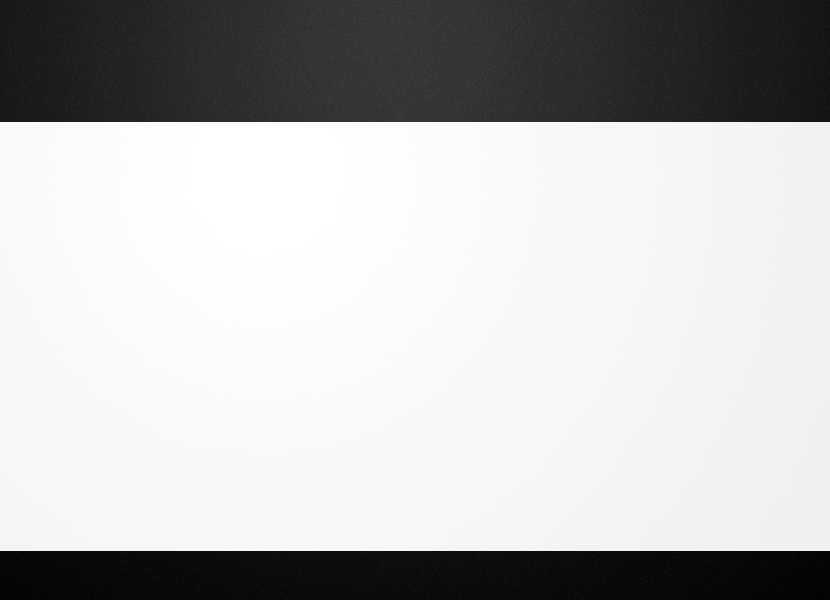
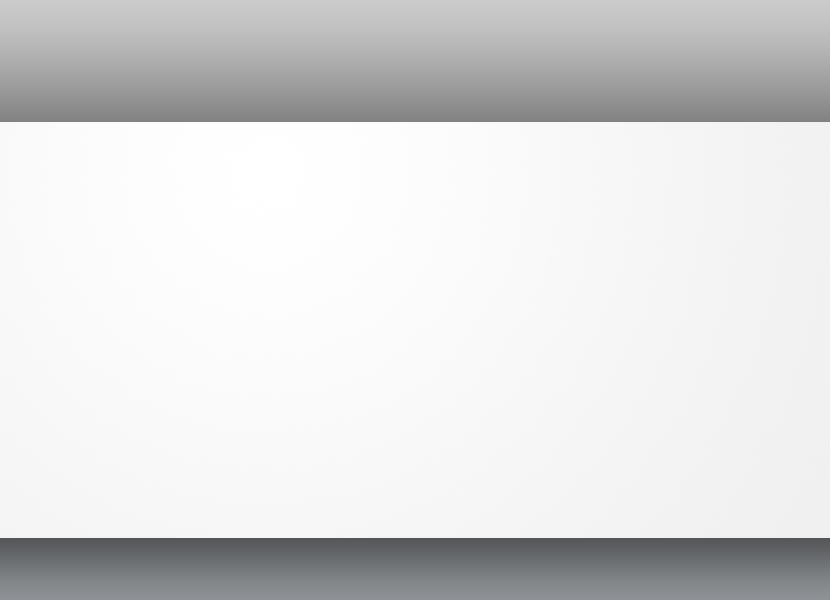
*Updated Looks of the Add Feed Page

diff --git a/css/styles.css b/css/styles.css
@@ -20,11 +20,11 @@ html{
     color:#fff;
     text-shadow:0 2px 5px #333;
     height:600px;
-	width:830px;
+    width:830px;
+    font-family:"Tahoma";
 }
 
 #header{
-	font-family:'Tahoma';
     padding: 40px 0 10px 30px;
 }
 #header img{
@@ -39,9 +39,8 @@ html{
     float:right;
     margin-top: -30px;
     margin-right:30px;
-	font-size:12px;
-    font-family:"Tahoma";
-	font-weight:bold;
+    font-size:12px;
+    font-weight:bold;
 }
 #searchbox input[type="text"]{
     text-shadow: 0 2px 5px #000;    
@@ -95,20 +94,20 @@ html{
 .filter{
     margin-top:14px;
     margin-left:20px;
-	background-image: -webkit-gradient(radial, center bottom, 0, center bottom, 490, color-stop(0, #303030), color-stop(1, #000000));
-	border-radius:10px 10px 0 0; 
-	width:655px;
-	height:26px;
+    background-image: -webkit-gradient(radial, center bottom, 0, center bottom, 490, color-stop(0, #505050), color-stop(1, #303030));
+    border-radius:10px 10px 0 0; 
+    width:655px;
+    height:26px;
 }
 .filter li{
     float:left;
-	font-size:13px;
+    font-size:13px;
     list-style:none;
-	margin-left:10px;
-	margin-top:6px;
-	text-shadow:0 2px 3px #111;
-	font-family:"Trebuchet MS";
-	font-weight:bold;
+    margin-left:10px;
+    margin-top:6px;
+    text-shadow:0 2px 3px #111;
+    font-family:"Trebuchet MS";
+    font-weight:bold;
 }
 .filter li a{
     color:#fff;
@@ -124,42 +123,42 @@ html{
     text-shadow:0 -2px 15px #888;
 }
 .filter li a.selected{
-	border-radius:10px 10px 0 0;
-	background-image: -webkit-gradient(linear, left bottom, left top, color-stop(0, #FCFCFC), color-stop(1, #D1D1D1));
-	color:#333;
-	padding-top:10px;
-	text-shadow:none;
+    border-radius:10px 10px 0 0;
+    background-image: -webkit-gradient(linear, left bottom, left top, color-stop(0, #FCFCFC), color-stop(1, #D1D1D1));
+    color:#333;
+    padding-top:10px;
+    text-shadow:none;
 }
 .filter li a.selected{
-	text-decoration:none;
-	cursor:default;
+    text-decoration:none;
+    cursor:default;
 }
 #youtube{
-	background:url('../img/youtube.png');
-	width:50px;
-	height:23px;
-	border-radius:5px;
-	position:absolute;
-	right:20px;
-	margin-top:-25px;
-	cursor:pointer;
+    background:url('../img/youtube.png');
+    width:50px;
+    height:23px;
+    border-radius:5px;
+    position:absolute;
+    right:20px;
+    margin-top:-25px;
+    cursor:pointer;
 }
 #youtube:hover{
-	background:url('../img/youtube.png') 0 -24px;
+    background:url('../img/youtube.png') 0 -24px;
 }
 #youtube:active{
-	background:url('../img/youtube.png') 0 -48px;
+    background:url('../img/youtube.png') 0 -48px;
 }
 /*----------------------------
     AddFeeds Content Area
 -----------------------------*/
 #container{
-    margin-left:6px;
+    margin-left:10px;
     position:relative;
     width:10000px;
     height:390px;
     overflow:auto;
-    margin-top:5px;
+    margin-top:25px;
 }
 .fdkadiv{
     float:left;
@@ -170,8 +169,8 @@ html{
     text-align:center;
     padding:auto;
     margin:auto;
-    width:150px;
-    height:80px;
+    width:155px;
+    height:89px;
     color:white;
     font-size:12px;
     font-weight:bold;
@@ -180,7 +179,7 @@ html{
     opacity:0;
 }
 .subscbdimg{
-	position:absolute;
+    position:absolute;
     width:32px;
     height:22px;
     float:right;
@@ -188,10 +187,10 @@ html{
     top:-5px;
 }
 .grimg li{
-    width:154px;
-    height:86px;
+    width:160px;
+    height:89px;
     position:relative;
-    margin:15px 25px 25px 25px;
+    margin:15px 15px 65px 25px;
     list-style:none;
     display:block;
     float:left;
@@ -201,8 +200,10 @@ html{
     -webkit-transition-duration:.2s;
     -webkit-box-shadow:0 3px 7px #333;
 }
-.grimg li img{
+.feedimage{
     z-index:100;
+    width:160px;
+    height:89px;
     border-radius:7px;
 }
 .grimg li:hover{
@@ -219,24 +220,6 @@ html{
     bottom:-25px;
     left:0%;
     width:100%;
-}
-
-#feedback{
-    position:relative;
-    margin-left:50px;
-    top:20px;
-    color:#000;
-    padding:5px;
-    cursor:pointer;
-    border-radius:5px;
-    background:url(../img/arrow.png) -10px 0px no-repeat;
-}
-#feedback:hover{
-    color:#222;
-    background:url('../img/arrow.png') -10px -30px no-repeat;
-}
-#feedback:active{
-    background:url('../img/arrow.png') -10px -60px no-repeat;
 }
 /*----------------------------
     MyFeeds Content Area/////////////////////////////////////////////
@@ -412,14 +395,16 @@ background-image: -webkit-gradient(linear, left bottom, left top, color-stop(0, 
 ////////////////////////////////////*/
 
 #footer{
-    position:fixed;
+    position:absolute;
     height:60px;
-    bottom:0px;
+    bottom:-8px;
+    color:#eee;
+    font-weight:bold;
     width:830px;
+    font-size:15px;
 }
 .toaddfeedsbtn{
-    font-family:'Segoe UI',Arial, sans-serif;
-    color:#333;
+    
     text-shadow: none;
     margin-left: 40px;
     margin-top: 15px;
@@ -431,8 +416,7 @@ background-image: -webkit-gradient(linear, left bottom, left top, color-stop(0, 
     background:url('../img/arrow2.png') 0 0 no-repeat;
 }
 #tomyfeedsbtn2{
-    font-family:'Segoe UI',Arial, sans-serif;
-    color:#333;
+    
     text-shadow: none;
     margin-left: 5px;
     margin-top: 15px;
@@ -444,41 +428,57 @@ background-image: -webkit-gradient(linear, left bottom, left top, color-stop(0, 
     background:url('../img/arrow2.png') 0 0 no-repeat;
 }
 #tomyfeedsbtn2:hover,.toaddfeedsbtn:hover{
-    color:#444;
+
     background:url('../img/arrow2.png') 0 -30px no-repeat;
+	color:#fff;
 }
 
 #tomyfeedsbtn2:active,.toaddfeedsbtn:active{
 
     background:url('../img/arrow2.png') 0 -60px no-repeat;
+	color:#ddd;
 }
-
 
 #tomyfeedsbtn
 {
     cursor:pointer;
-    color:#333;
     text-shadow: none;
-    font-family:'Segoe UI',Arial, sans-serif;
     margin-right: 40px;
-    margin-top: 15px;
-    width: 90px;
     float:right;
-    font-size:15px;
-    padding:4px 5px 6px 10px;
+    padding:11px 12px 13px 47px;
     background:url('../img/arrow.png') 0 0 no-repeat;
 }
 
 #tomyfeedsbtn:hover
 {   
-    color:#444;
-    background:url('../img/arrow.png') 0 -30px no-repeat;
+    background:url('../img/arrow.png') 0 -42px no-repeat;
+	color:#fff;
 }
 #tomyfeedsbtn:active
 {
-    background:url('../img/arrow.png') 0 -60px no-repeat;
+    background:url('../img/arrow.png') 0 -84px no-repeat;
+	color:#ddd;
 }
 
+#feedback{
+    float:left;
+    position:relative;
+    margin-left:50px;
+    padding:12px 6px 11px 50px;
+    font-weight:bold;
+    cursor:pointer;
+    background:url('../img/feedback.png') 0 0 no-repeat;
+}
+#feedback:hover
+{   
+    color:#fff;
+    background:url('../img/feedback.png') 0 -42px no-repeat;
+}
+#feedback:active
+{
+    color:#ddd;
+    background:url('../img/feedback.png') 0 -84px no-repeat;
+}
 /*--------------------------------------------------------
                 Feed View Area CSS/////////////////////////////////////////////////
 ----------------------------------------------------------*/
@@ -550,7 +550,7 @@ margin-bottom:15px;
     /////////////////////////////////////////////////////////*/
 
 #headlview {
-    font-family:'Segoe UI',Arial, sans-serif;
+    
     border-radius: 4px;
     text-shadow: none;
     color:#fff;
@@ -585,7 +585,7 @@ margin-bottom:15px;
     background:#111;
 }
 #rdrheadl{
-    font-family:'Segoe UI',Arial, sans-serif;
+    
     font-size:14px;
     color:#fff;
     text-shadow: none;

diff --git a/popup.html b/popup.html
@@ -61,7 +61,7 @@
        </div><!--searchbox div end--></div>
            	 
                        <ul class="filter">
-                        <li>Category:</li>
+                        
                         <li ><a class="selected 0" href="#" data-value="news">News</a></li>
                         <li ><a class=" 1" href="#" data-value="busi">Business</a></li>
             
@@ -120,10 +120,9 @@
              <li data-id="http://www.101cookbooks.com/index.rdf" class="food"><img src="assets/img/shots/101cookbook.png" alt="101 Cookbooks" title="101 Cookbooks"class='feedimage'/><div class='caption'></div><div class='fdname'>101 Cookbooks</div></li>
              <li data-id="http://www.laraferroni.com/category/cookandeat/feed/" class="food"><img src="assets/img/shots/cookneat.png" alt="Cook & Eat" title="Cook & Eat"class='feedimage'/><div class='caption'></div><div class='fdname'>Lara Ferroni-Cook & Eat</div></li>
              <li data-id="http://www.slashfood.com/rss.xml" class="food"><img src="assets/img/shots/huffpostfood.png" alt="Huffpost Food" title="Huffpost Food"class='feedimage'/><div class='caption'></div><div class='fdname'>Huffpost Food</div></li>
-             <li data-id="http://www.amateurgourmet.com/the_amateur_gourmet/atom.xml" class="food"><img src="assets/img/shots/digtr.png" alt="The Amateur Gourmet" title="The Amateur Gourmet"class='feedimage'/><div class='caption'></div><div class='fdname'>The Amateur Gourmet</div></li>
+             
              <li data-id="http://feeds.seriouseats.com/seriouseatsfeaturesvideos" class="food"><img src="assets/img/shots/seriouseats.png" alt="Serious Eats" title="Serious Eats"class='feedimage'/><div class='caption'></div><div class='fdname'>Serious Eats</div></li>
              <li data-id="http://www.kqed.org/weblog/food/atom.xml" class="food"><img src="assets/img/shots/bayareabites.png" alt="Bay Area Bites" title="Bay Area Bites"class='feedimage'/><div class='caption'></div><div class='fdname'>Bay Area Bites</div></li>
-             <li data-id="http://chocolateandzucchini.com/index.rdf" class="food"><img src="assets/img/shots/chocnzucc.png" alt="Chocolate & Zucchini" title="Chocolate & Zucchini"class='feedimage'/><div class='caption'></div><div class='fdname'>Chocolate & Zucchini</div></li>
              <li data-id="http://www.foodbeam.com/feed/" class="food"><img src="assets/img/shots/foodbeam.png" alt="foodbeam" title="foodbeam"class='feedimage'/><div class='caption'></div><div class='fdname'>foodbeam</div></li>
              <li data-id="http://www.elise.com/recipes/index.rdf" class="food"><img src="assets/img/shots/simprecip.png" alt="Simply Recipes" title="Simply Recipes"class='feedimage'/><div class='caption'></div><div class='fdname'>Simply Recipes</div></li>
              <li data-id="http://www.cookingforengineers.com/atom.xml" class="food"><img src="assets/img/shots/cookengg.png" alt="Cooking For Engineers" title="Cooking For Engineers"class='feedimage'/><div class='caption'></div><div class='fdname'>Cooking For Engineers</div></li>
@@ -146,9 +145,7 @@
               <li data-id="http://scienceblogs.com/cognitivedaily/atom.xml" class="science"><img src="assets/img/shots/cogdaily.png" alt="COGNITIVE DAILY" title="Cognitive Daily"class='feedimage'/><div class='caption'></div><div class='fdname'>Cognitive Daily</div></li>
               <li data-id="http://www.newscientist.com/feed.ns?index=online-news" class="science"><img src="assets/img/shots/newscien.png" alt="NEW SCIENTIST" title="New Scientist"class='feedimage'/><div class='caption'></div><div class='fdname'>New Scientist</div></li>
               <li data-id="http://www.sciencemag.org/rss/current.xml" class="science"><img src="assets/img/shots/scicurr.png" alt="SCIENCEMAG" title="Science: Current Issue"class='feedimage'/><div class='caption'></div><div class='fdname'>Science: Current Issue</div></li>
-              <li data-id="http://www.forrester.com/rss/custom/0,,1193712,00.xml" class="science"><img src="assets/img/shots/forrester.png" alt="FORRESTER RESEARCH" title="Forrester Research"class='feedimage'/><div class='caption'></div><div class='fdname'>Forrester Research</div></li>
-             <li data-id="http://www.nature.com/news/rss.rdf" class="science"><img src="assets/img/shots/nature.png" alt="NatureNews" title="NatureNews"class='feedimage'/><div class='caption'></div><div class='fdname'>NatureNews</div></li>
-              <li data-id="http://tomsastroblog.com/?feed=atom" class="science"><img src="assets/img/shots/forrester.png" alt="TOMS BLOG" title="Tom's Astronomy Blog"class='feedimage'/><div class='caption'></div><div class='fdname'>Tom's Astronomy Blog</div></li>
+             
               </div>
               
              <div id="sports-feeds" class="fdkadiv">

diff --git a/js/FeedViewer.js b/js/FeedViewer.js
@@ -116,7 +116,7 @@ var FeedViewer = {
 				var multiple=$(this).attr('class');
 				$(this).addClass('selected');
 				var field = $(this).attr('data-value');
-				var finval=multiple*830*(-1)+6;
+				var finval=multiple*830*(-1)+10;
 				$("#container").animate({'margin-left': finval}, 300);
 				//$("#stage div").slideUp("slow");
 				//$("#"+field+"-feeds").slideDown("slow");
